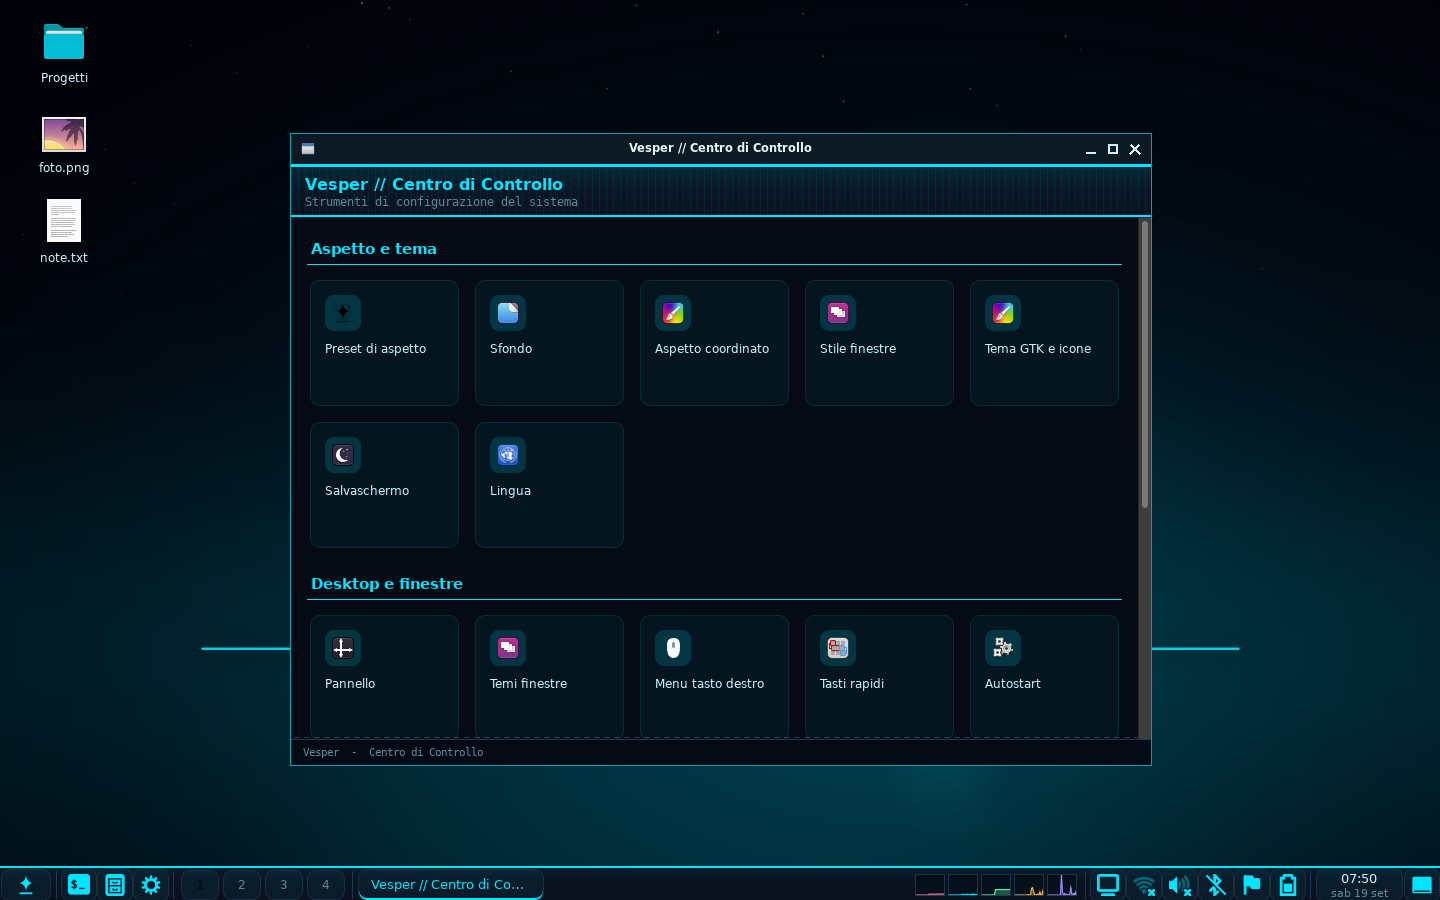
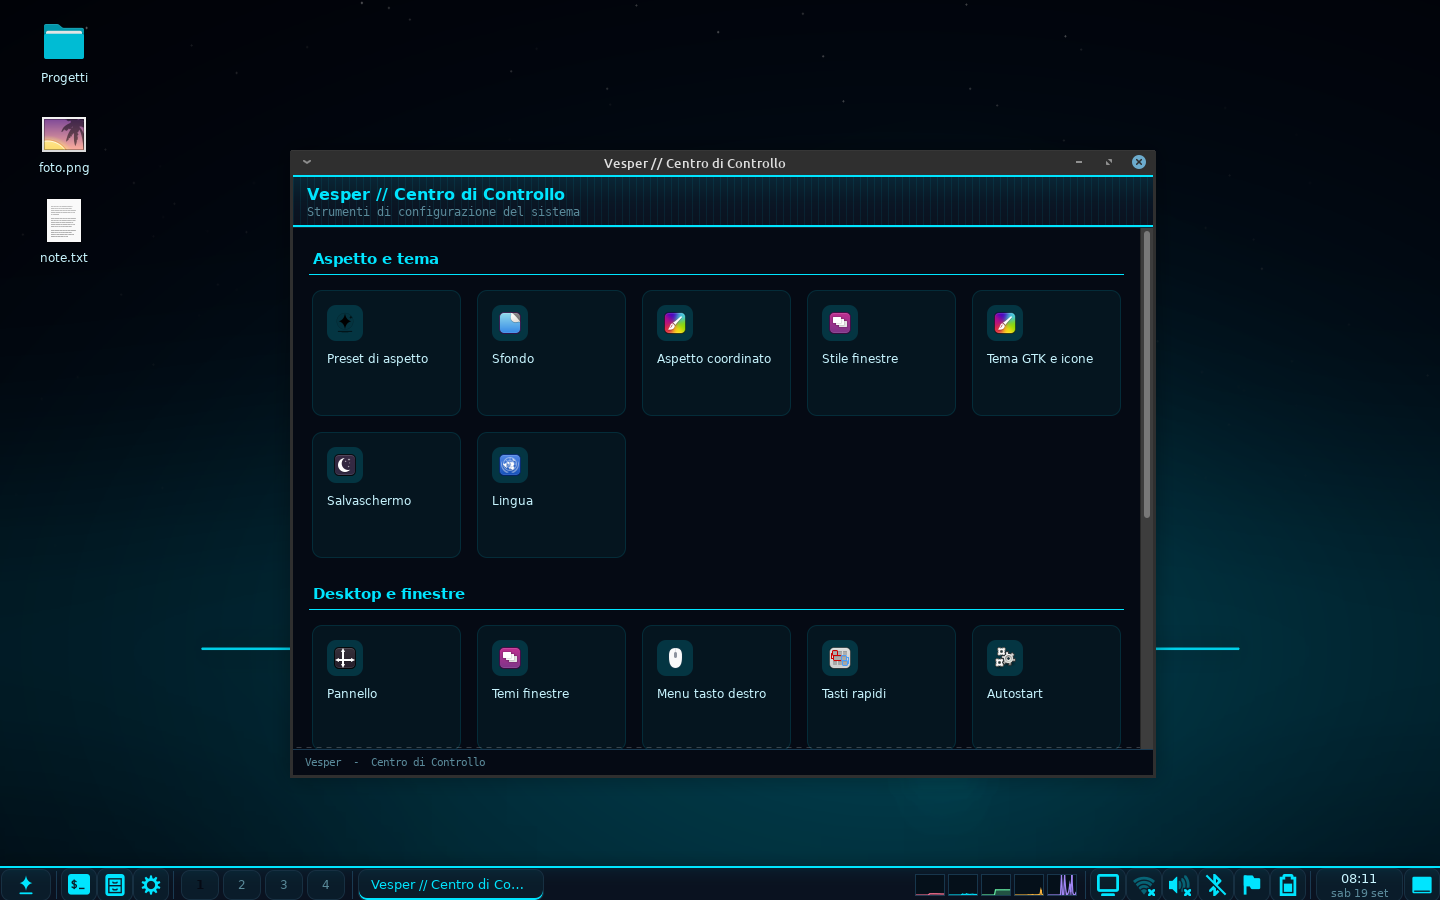
Decorazioni di Mint come scelta predefinita, più gli screenshot del desktop
- Il gestore finestre ora si risolve in "auto": se sulla macchina c'è marco
  (o metacity) e c'è un tema Mint da usare, la sessione parte con quello e le
  finestre hanno le decorazioni VERE di Mint; altrimenti si usa Openbox con le
  decorazioni di Vesper. La scelta resta cambiabile (vesper-wm, Centro di
  Controllo). vesper-session chiede a `vesper-wm --risolto` quale avviare.
- Pacchetto .deb: marco|metacity fra i consigliati (con mint-themes), e
  openbox|marco|metacity come dipendenza, visto che uno qualsiasi basta.
- docs/img: schermate del desktop, del file manager, del Centro di Controllo e
  del selettore dei preset, prese con le decorazioni Mint attive.

diff --git a/src/vesper/profiles/model.py b/src/vesper/profiles/model.py
@@ -533,16 +533,34 @@ def set_theme_family(fam: str) -> None:
 #   metacity  idem, versione GNOME storica
 # La scelta sta in ~/.config/vesper/wm e la legge vesper-session.
 WM_CONF = CONF_DIR / "wm"
-WM_SUPPORTED = ("openbox", "marco", "metacity")
-WM_DEFAULT = "openbox"
+WM_SUPPORTED = ("auto", "openbox", "marco", "metacity")
+WM_DEFAULT = "auto"
 
 
 def get_wm() -> str:
+    """Scelta dell'utente: auto (predefinito), openbox, marco, metacity."""
     try:
         v = WM_CONF.read_text().strip().lower()
         return v if v in WM_SUPPORTED else WM_DEFAULT
     except OSError:
         return WM_DEFAULT
+
+
+def resolve_wm() -> str:
+    """Gestore finestre da avviare davvero.
+
+    In "auto" si preferiscono le decorazioni VERE di Mint: se sulla macchina
+    c'è marco (o metacity) e c'è un tema Mint da dargli, si usa quello; in
+    mancanza si torna a Openbox con le decorazioni di Vesper. È la scelta
+    predefinita perché quelle decorazioni sono più curate e più familiari."""
+    wm = get_wm()
+    if wm != "auto":
+        return wm if shutil.which(wm) else "openbox"
+    if wm_theme_name():
+        for cand in ("marco", "metacity"):
+            if shutil.which(cand):
+                return cand
+    return "openbox"
 
 
 def set_wm(name: str) -> str:
@@ -551,7 +569,7 @@ def set_wm(name: str) -> str:
     name = name if name in WM_SUPPORTED else WM_DEFAULT
     paths.ensure_config()
     WM_CONF.write_text(name + "\n")
-    if name in ("marco", "metacity"):
+    if resolve_wm() in ("marco", "metacity"):
         set_wm_theme()
     return name
 
@@ -581,7 +599,7 @@ def set_wm_theme(key: str | None = None) -> str:
     theme = wm_theme_name(key)
     if not theme:
         return ""
-    wm = get_wm()
+    wm = resolve_wm()
     schema = {"marco": "org.mate.Marco.general",
               "metacity": "org.gnome.desktop.wm.preferences"}.get(wm)
     if schema is None or not shutil.which("gsettings"):
